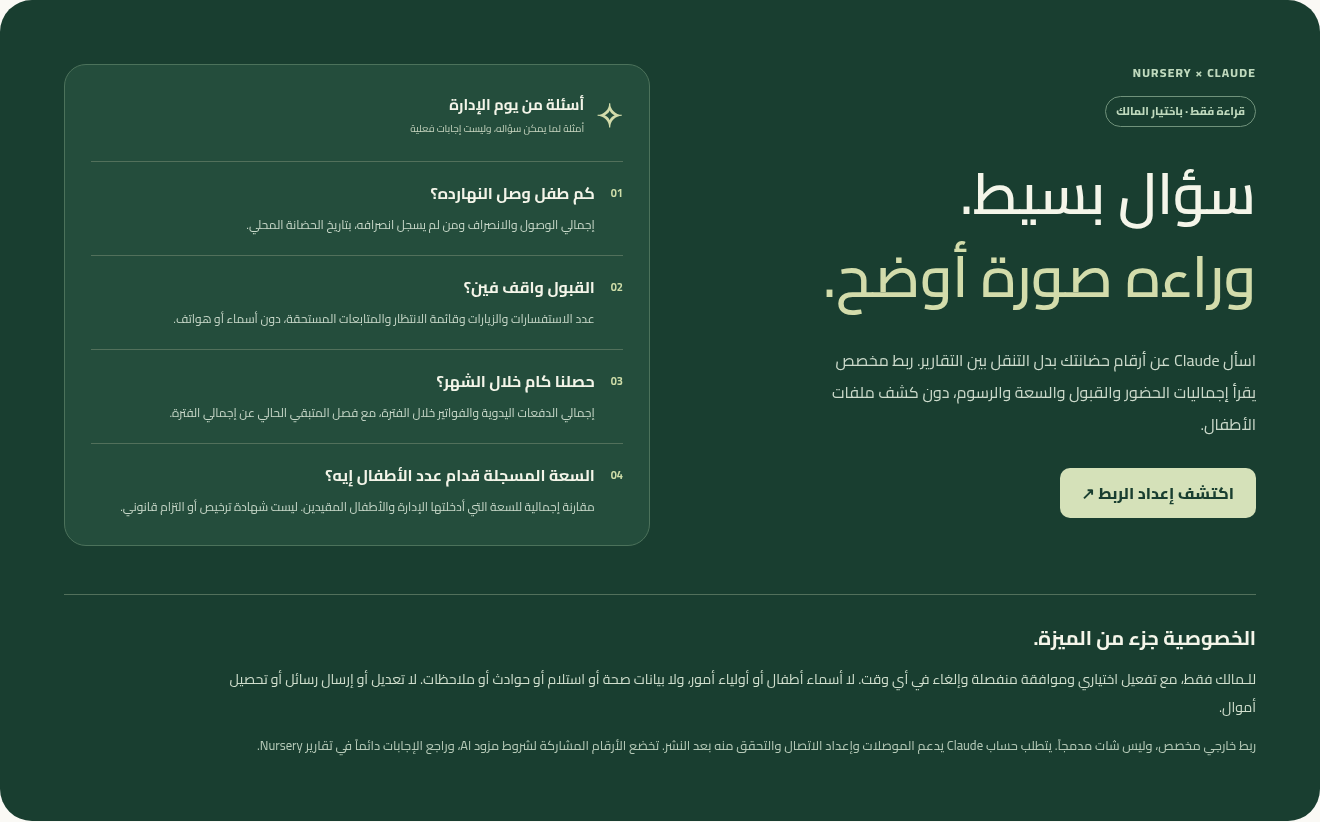
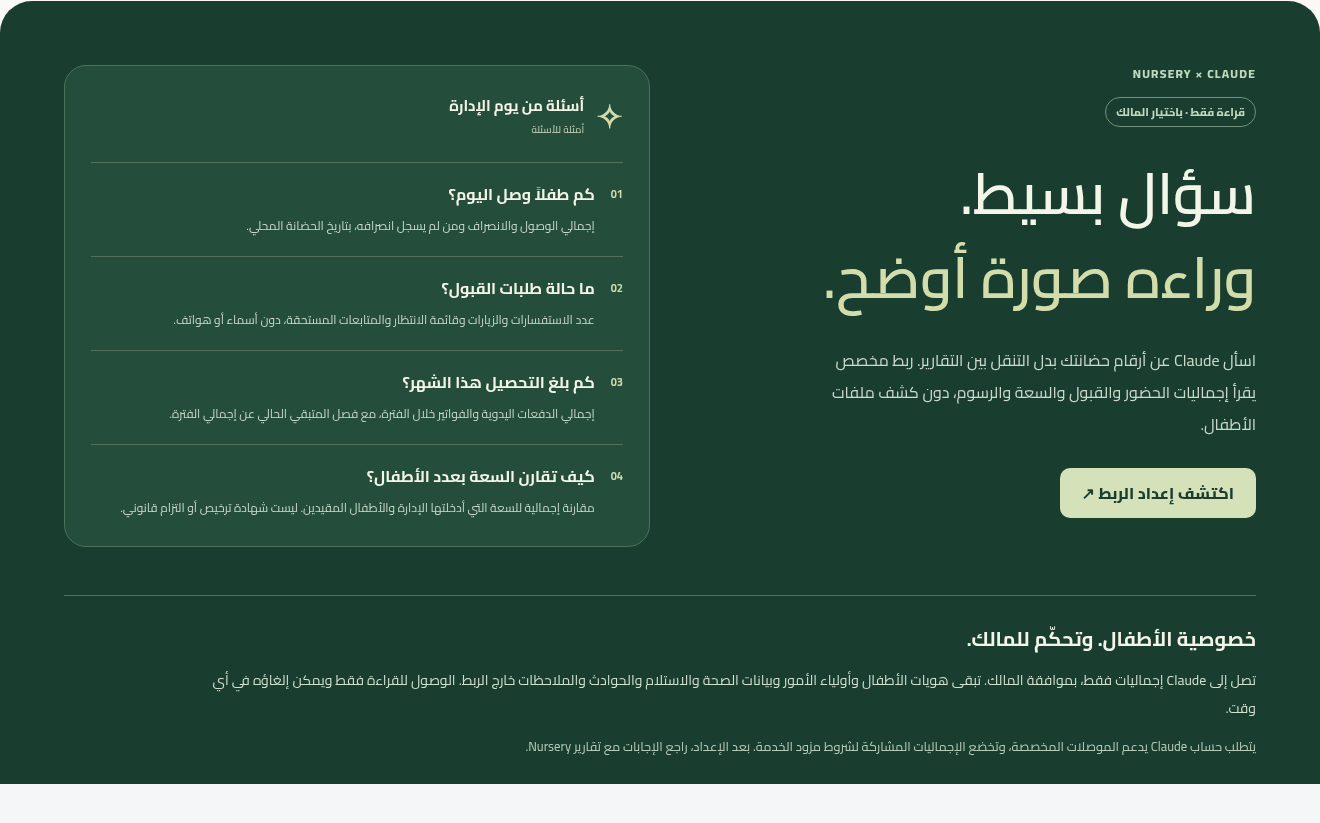
Polish customer-facing setup, plan and account copy

diff --git a/resources/js/Pages/Welcome.vue b/resources/js/Pages/Welcome.vue
@@ -48,10 +48,10 @@ const features = [
     ],
     [
         "05",
-        "الرسوم واضحة للإدارة",
-        "A clearer view of nursery fees",
-        "خطط رسوم وفواتير ودفعات مسجلة يدوياً، مع المتبقي والمتأخر وتقارير التحصيل. لا توجد بوابة دفع مفعلة.",
-        "Tuition plans, invoices and manually recorded payments, with outstanding balances and collection reports. No live payment gateway.",
+        "إدارة الرسوم بوضوح",
+        "Nursery fees, clearly recorded",
+        "خطط رسوم وفواتير ودفعات مسجلة يدوياً، مع متابعة المتبقي والمتأخر وتقارير التحصيل.",
+        "Tuition plans, invoices and manually recorded payments, with outstanding balances and collection reports.",
     ],
     [
         "06",
@@ -297,8 +297,8 @@ function submit() {
                                 )
                             }}<small>{{
                                 L(
-                                    "أمثلة لما يمكن سؤاله، وليست إجابات فعلية",
-                                    "Example questions, not live answers",
+                                    "أمثلة للأسئلة",
+                                    "Suggested questions",
                                 )
                             }}</small></span
                         >
@@ -309,7 +309,7 @@ function submit() {
                             <h3>
                                 {{
                                     L(
-                                        "كم طفل وصل النهارده؟",
+                                        "كم طفلاً وصل اليوم؟",
                                         "How many children arrived today?",
                                     )
                                 }}
@@ -330,7 +330,7 @@ function submit() {
                             <h3>
                                 {{
                                     L(
-                                        "القبول واقف فين؟",
+                                        "ما حالة طلبات القبول؟",
                                         "Where do admissions stand?",
                                     )
                                 }}
@@ -351,7 +351,7 @@ function submit() {
                             <h3>
                                 {{
                                     L(
-                                        "حصلنا كام خلال الشهر؟",
+                                        "كم بلغ التحصيل هذا الشهر؟",
                                         "How much did we collect this month?",
                                     )
                                 }}
@@ -372,7 +372,7 @@ function submit() {
                             <h3>
                                 {{
                                     L(
-                                        "السعة المسجلة قدام عدد الأطفال إيه؟",
+                                        "كيف تقارن السعة بعدد الأطفال؟",
                                         "How does entered capacity compare with enrollment?",
                                     )
                                 }}
@@ -391,22 +391,22 @@ function submit() {
                 <div class="ai-boundary">
                     <strong>{{
                         L(
-                            "الخصوصية جزء من الميزة.",
-                            "Privacy is part of the feature.",
+                            "خصوصية الأطفال. وتحكّم للمالك.",
+                            "Child privacy. Owner control.",
                         )
                     }}</strong>
                     <p>
                         {{
                             L(
-                                "للـمالك فقط، مع تفعيل اختياري وموافقة منفصلة وإلغاء في أي وقت. لا أسماء أطفال أو أولياء أمور، ولا بيانات صحة أو استلام أو حوادث أو ملاحظات. لا تعديل أو إرسال رسائل أو تحصيل أموال.",
-                                "Owner-only, with opt-in, separate consent and revocation. No child or guardian identities, health, pickup, incident or free-text records. No edits, messages or charges.",
+                                "تصل إلى Claude إجماليات فقط، بموافقة المالك. تبقى هويات الأطفال وأولياء الأمور وبيانات الصحة والاستلام والحوادث والملاحظات خارج الربط. الوصول للقراءة فقط ويمكن إلغاؤه في أي وقت.",
+                                "Only aggregates are shared with Claude, with owner consent. Child and guardian identities, health, pickup, incident and free-text records stay outside the connection. Access is read-only and can be revoked at any time.",
                             )
                         }}
                     </p>
                     <small>{{
                         L(
-                            "ربط خارجي مخصص، وليس شات مدمجاً. يتطلب حساب Claude يدعم الموصلات وإعداد الاتصال والتحقق منه بعد النشر. تخضع الأرقام المشاركة لشروط مزود AI، وراجع الإجابات دائماً في تقارير Nursery.",
-                            "A custom external connection, not embedded chat. Requires a Claude account with connector support, setup and verification after deployment. Shared aggregates are subject to the AI provider’s terms. Always check answers against Nursery reports.",
+                            "يتطلب حساب Claude يدعم الموصلات المخصصة، وتخضع الإجماليات المشاركة لشروط مزود الخدمة. بعد الإعداد، راجع الإجابات مع تقارير Nursery.",
+                            "Requires a Claude account with custom connector support. Shared aggregates follow the provider's terms. After setup, check answers against Nursery reports.",
                         )
                     }}</small>
                 </div>
@@ -567,16 +567,16 @@ function submit() {
                         <h3>
                             {{
                                 L(
-                                    "لنبدأ باحتياجاتك، لا بسعر مفترض.",
-                                    "Let’s start with your needs, not an assumed price.",
+                                    "عرض يناسب طريقة عمل حضانتك.",
+                                    "A proposal for the way your nursery works.",
                                 )
                             }}
                         </h3>
                         <p>
                             {{
                                 L(
-                                    "لم تُنشر باقات مسعّرة بعد. أخبرنا عن حضانتك لطلب عرض يناسب طريقة عملك.",
-                                    "Priced plans have not been published yet. Tell us about your nursery to request a suitable proposal.",
+                                    "أخبرنا عن فريقك واحتياجاتك، لنتفق على الباقة وشروط التفعيل المناسبة قبل أي التزام مالي.",
+                                    "Tell us about your team and needs. Review a suitable plan and activation terms before any financial commitment.",
                                 )
                             }}
                         </p>
@@ -609,8 +609,8 @@ function submit() {
                         <p>
                             {{
                                 L(
-                                    "النسخة الحالية مساحة داخلية لفريق الحضانة. لا تتضمن دخول أولياء الأمور أو رسائل وإشعارات تلقائية لهم.",
-                                    "The current version is an internal nursery staff workspace. Parent logins and automatic messages or notifications are not included.",
+                                    "Nursery مساحة داخلية لفريق الحضانة. دخول أولياء الأمور والرسائل والإشعارات التلقائية لهم غير مشمولة.",
+                                    "Nursery is an internal staff workspace. Parent logins and automatic parent messages or notifications are not included.",
                                 )
                             }}
                         </p>
@@ -627,8 +627,8 @@ function submit() {
                         <p>
                             {{
                                 L(
-                                    "لا توجد بوابة دفع مفعلة. الإدارة تسجل الدفعات يدوياً وتراجع الفواتير والمتبقي في النظام.",
-                                    "No payment gateway is active. Management records payments manually and reviews invoices and balances in the system.",
+                                    "لا. تُسجّل الإدارة الدفعات يدوياً وتتابع الفواتير والأرصدة داخل Nursery؛ التحصيل الإلكتروني غير مشمول.",
+                                    "No. Management records payments manually and tracks invoices and balances in Nursery; online payment collection is not included.",
                                 )
                             }}
                         </p>
@@ -834,6 +834,8 @@ function submit() {
 </template>
 
 <style scoped>
+.landing-faq > * { min-width: 0; }
+.landing-faq .section-heading { max-width: 100%; }
 .product-window picture { display: block; }
 .product-window img { height: auto; }
 @media (max-width: 700px) { .product-window { transform: none; } }

diff --git a/resources/js/lib/i18n.js b/resources/js/lib/i18n.js
@@ -1,17 +1,23 @@
 import { ref, watchEffect } from "vue";
 const locale = ref(localStorage.getItem("baraim-locale") || "ar");
 const ar = {
+    'Please wait before retrying.': 'يرجى الانتظار قليلاً قبل المحاولة مرة أخرى.',
+    'Reset your password': 'استعادة كلمة المرور',
+    'Choose a new password': 'اختر كلمة مرور جديدة',
+    'Confirm your password': 'تأكيد كلمة المرور',
+    'Verify your email': 'تأكيد البريد الإلكتروني',
     "Claude connection": "ربط Claude",
     "Setup guide": "دليل الإعداد",
-    "New accounts request manual activation. Registration does not take payment or promise a free trial.": "الحساب الجديد يبدأ بطلب تفعيل يدوي. التسجيل لا يحصّل مبلغاً ولا يعد بمدة تجربة مجانية.",
+    "Create your nursery account, then review a plan and request activation. Registration does not take payment.": "أنشئ حساب الحضانة، ثم راجع الباقة وأرسل طلب التفعيل. لا يتم تحصيل مبلغ عند التسجيل.",
     Subscription: "الاشتراك",
     "Profile Information": "بيانات الحساب",
     "Update your account's profile information and email address.":
         "حدث اسم الحساب وبريده الإلكتروني.",
     "Your email address is unverified.": "بريدك الإلكتروني غير مؤكد.",
     "Click here to re-send the verification email.": "طلب رسالة تحقق جديدة.",
-    "A new verification link has been sent to your email address.":
-        "تمت معالجة طلب رابط التحقق. يعتمد وصول الرسالة على إعداد البريد.",
+    "Request received. Check your inbox, or contact the platform team if no message arrives.":
+        "تم استلام طلبك. راجع بريدك، وتواصل مع إدارة المنصة إذا لم تصلك الرسالة.",
+    "Contact the platform team": "التواصل مع إدارة المنصة",
     "Saved.": "تم الحفظ.",
     "Update Password": "تغيير كلمة المرور",
     "Ensure your account is using a long, random password to stay secure.":
@@ -26,12 +32,10 @@ const ar = {
         "أدخل كلمة المرور لحذف حساب دخولك نهائياً. لا يحذف ذلك الحضانة أو سجلات الأطفال والتحصيل والرعاية.",
     "This is a secure area of the application. Please confirm your password before continuing.":
         "أكد كلمة المرور قبل المتابعة إلى هذه المنطقة المحمية.",
-    "Thanks for signing up! Before getting started, could you verify your email address by clicking on the link we just emailed to you? If you didn't receive the email, we will gladly send you another.":
-        "أكد بريدك الإلكتروني من رابط التحقق عند وصول الرسالة. يتطلب الإرسال إعداد خدمة البريد في النظام.",
-    "A new verification link has been sent to the email address you provided during registration.":
-        "تمت معالجة طلب رابط تحقق جديد إلى بريد التسجيل. يعتمد وصول الرسالة على إعداد البريد.",
-    "Forgot your password? No problem. Just let us know your email address and we will email you a password reset link that will allow you to choose a new one.":
-        "أدخل بريد الحساب لطلب رابط تغيير كلمة المرور. يتطلب وصول الرسالة إعداد خدمة البريد في النظام.",
+    "Verify your email using the link you receive. If no message arrives, contact the platform team.":
+        "أكد بريدك من الرابط الذي يصلك. تواصل مع إدارة المنصة إذا لم تصلك الرسالة.",
+    "Enter your account email to request a password reset link. If no message arrives, contact the platform team.":
+        "أدخل بريد حسابك لطلب رابط تغيير كلمة المرور. تواصل مع إدارة المنصة إذا لم تصلك الرسالة.",
     Reports: "التقارير",
     "Care activity and manually recorded collections. No tax or accounting certification is implied.":
         "نشاط الرعاية والتحصيل المسجل يدوياً. ليس تقريراً ضريبياً أو اعتماداً محاسبياً.",

diff --git a/resources/js/Pages/Ai/Index.vue b/resources/js/Pages/Ai/Index.vue
@@ -173,8 +173,8 @@ function save() {
                     <p>
                         {{
                             L(
-                                "قد تختلف إتاحة الموصلات حسب حساب Claude وسياساته. هذا ربط خارجي مخصص، وليس شات مدمجاً أو إدراجاً عاماً. لم يتم اختبار اتصال هذه الحضانة على حسابك بعد.",
-                                "Connector availability depends on your Claude account and policies. This is a custom external connection, not embedded chat or a public listing. This nursery connection has not yet been tested on your account.",
+                                "يلزم حساب Claude يدعم الموصلات المخصصة. أضف الاتصال من حسابك في Claude، ثم قارن أول إجابة بتقرير Nursery للتأكد من الإعداد.",
+                                "A Claude account with custom connector support is required. Add the connection from Claude, then compare your first answer with a Nursery report to check the setup.",
                             )
                         }}
                     </p>
@@ -186,6 +186,10 @@ function save() {
                             )
                         }}
                     </p>
+                    <details class="connection-help">
+                        <summary>{{ L('متطلبات الربط واستخدامه', 'Connection requirements and use') }}</summary>
+                        <p>{{ L('المحادثة تتم في حسابك لدى Claude، لا داخل Nursery. إتاحة الموصلات تخضع لحسابك وشروط المزود. إذا تعذر إتمام الربط، راجع دعم الموصلات في حسابك، ثم عنوان الاتصال وموافقة مالك الحضانة. يمكنك إلغاء الوصول من قائمة الاتصالات أدناه.', 'Chat takes place in your Claude account, not inside Nursery. Connector access depends on your account and provider terms. If setup cannot be completed, check connector support in your account, then the endpoint and nursery owner consent. You can revoke access in the connections list below.') }}</p>
+                    </details>
                 </section>
             </div>
             <section class="ai-card connection-list">
@@ -230,6 +234,8 @@ function save() {
     </AuthenticatedLayout>
 </template>
 <style scoped>
+.connection-help { margin-top: 18px; border-top: 1px solid #e0e8e2; padding-top: 16px; }
+.connection-help summary { cursor: pointer; font-size: 14px; font-weight: 700; color: #35533d; }
 .ai-page {
     max-width: 1120px;
     margin: auto;

diff --git a/resources/js/Pages/Auth/VerifyEmail.vue b/resources/js/Pages/Auth/VerifyEmail.vue
@@ -30,7 +30,7 @@ const verificationLinkSent = computed(
         <div class="mb-4 text-sm text-gray-600">
             {{
                 t(
-                    "Thanks for signing up! Before getting started, could you verify your email address by clicking on the link we just emailed to you? If you didn't receive the email, we will gladly send you another.",
+                    "Verify your email using the link you receive. If no message arrives, contact the platform team.",
                 )
             }}
         </div>
@@ -41,7 +41,7 @@ const verificationLinkSent = computed(
         >
             {{
                 t(
-                    "A new verification link has been sent to the email address you provided during registration.",
+                    "Request received. Check your inbox, or contact the platform team if no message arrives.",
                 )
             }}
         </div>
@@ -58,10 +58,14 @@ const verificationLinkSent = computed(
                     :href="route('logout')"
                     method="post"
                     as="button"
-                    class="rounded-md text-sm text-gray-600 underline hover:text-gray-900 focus:outline-none focus:ring-2 focus:ring-indigo-500 focus:ring-offset-2"
+                    class="verification-logout rounded-md text-sm text-gray-600 underline hover:text-gray-900 focus:outline-none focus:ring-2 focus:ring-indigo-500 focus:ring-offset-2"
                     >{{ t("Log Out") }}</Link
                 >
             </div>
         </form>
+        <a href="/#contact" class="mt-4 block text-sm text-gray-600 underline">{{ t('Contact the platform team') }}</a>
     </GuestLayout>
 </template>
+<style scoped>
+.verification-logout { background: transparent; color: #536258; padding: 8px 10px; border: 1px solid #dfe8e0; }
+</style>

diff --git a/resources/js/Pages/Auth/ForgotPassword.vue b/resources/js/Pages/Auth/ForgotPassword.vue
@@ -30,13 +30,13 @@ const submit = () => {
         <div class="mb-4 text-sm text-gray-600">
             {{
                 t(
-                    "Forgot your password? No problem. Just let us know your email address and we will email you a password reset link that will allow you to choose a new one.",
+                    "Enter your account email to request a password reset link. If no message arrives, contact the platform team.",
                 )
             }}
         </div>
 
         <div v-if="status" class="mb-4 text-sm font-medium text-green-600">
-            {{ status }}
+            {{ t('Request received. Check your inbox, or contact the platform team if no message arrives.') }}
         </div>
 
         <form @submit.prevent="submit">
@@ -53,7 +53,7 @@ const submit = () => {
                     autocomplete="username"
                 />
 
-                <InputError class="mt-2" :message="form.errors.email" />
+                <InputError class="mt-2" :message="t(form.errors.email)" />
             </div>
 
             <div class="mt-4 flex items-center justify-end">
@@ -64,5 +64,6 @@ const submit = () => {
                 >
             </div>
         </form>
+        <a href="/#contact" class="mt-4 block text-sm text-gray-600 underline">{{ t('Contact the platform team') }}</a>
     </GuestLayout>
 </template>

diff --git a/resources/js/Pages/Subscription/Index.vue b/resources/js/Pages/Subscription/Index.vue
@@ -159,8 +159,8 @@ const labels = {
                     <p class="saas-muted">
                         {{
                             L(
-                                "تتم مراجعة السعر وشروط التفعيل مع إدارة المنصة. لا توجد بوابة دفع مفعلة.",
-                                "Price and activation terms are reviewed with the platform team. No payment gateway is active.",
+                                "راجع السعر وشروط التفعيل مع إدارة المنصة. تُرتّب الدفعات خارج Nursery وتُسجّل يدوياً.",
+                                "Review pricing and activation terms with the platform team. Payments are arranged outside Nursery and recorded manually.",
                             )
                         }}
                     </p>

diff --git a/resources/js/Layouts/GuestLayout.vue b/resources/js/Layouts/GuestLayout.vue
@@ -19,9 +19,13 @@ const { t, locale, toggleLocale } = useI18n();
             <h1 class="text-2xl font-bold text-green-900 mb-2">
                 {{
                     t(
-                        route().current("register")
-                            ? "Create your nursery workspace"
-                            : "Welcome back",
+                        ({
+                            register: 'Create your nursery workspace',
+                            'password.request': 'Reset your password',
+                            'password.reset': 'Choose a new password',
+                            'password.confirm': 'Confirm your password',
+                            'verification.notice': 'Verify your email',
+                        })[route().current()] || 'Welcome back',
                     )
                 }}
             </h1>

diff --git a/resources/js/Pages/Platform/Index.vue b/resources/js/Pages/Platform/Index.vue
@@ -362,8 +362,8 @@ function filter() {
                 <p v-if="!plans.length">
                     {{
                         L(
-                            "لا توجد باقات بعد. لم يتم افتراض سعر أو مدة تجربة.",
-                            "No plans yet. No price or trial period has been assumed.",
+                            "أضف باقة وحدد سعرها وشروط تفعيلها، ثم انشرها عندما تكون جاهزة.",
+                            "Add a plan with its price and activation terms, then publish it when ready.",
                         )
                     }}
                 </p>

diff --git a/resources/js/Pages/Auth/Register.vue b/resources/js/Pages/Auth/Register.vue
@@ -29,7 +29,7 @@ const submit = () => {
     <GuestLayout>
         <Head :title="t('Register')" />
 
-        <p class="mb-5 text-xs leading-7 text-gray-500">{{t('New accounts request manual activation. Registration does not take payment or promise a free trial.')}}</p><form @submit.prevent="submit">
+        <p class="mb-5 text-xs leading-7 text-gray-500">{{t('Create your nursery account, then review a plan and request activation. Registration does not take payment.')}}</p><form @submit.prevent="submit">
             <div>
                 <InputLabel for="nursery_name" :value="t('Nursery name')" />
 

diff --git a/resources/js/Pages/Profile/Partials/UpdateProfileInformationForm.vue b/resources/js/Pages/Profile/Partials/UpdateProfileInformationForm.vue
@@ -95,7 +95,7 @@ const form = useForm({
                 >
                     {{
                         t(
-                            "A new verification link has been sent to your email address.",
+                            "Request received. Check your inbox, or contact the platform team if no message arrives.",
                         )
                     }}
                 </div>
